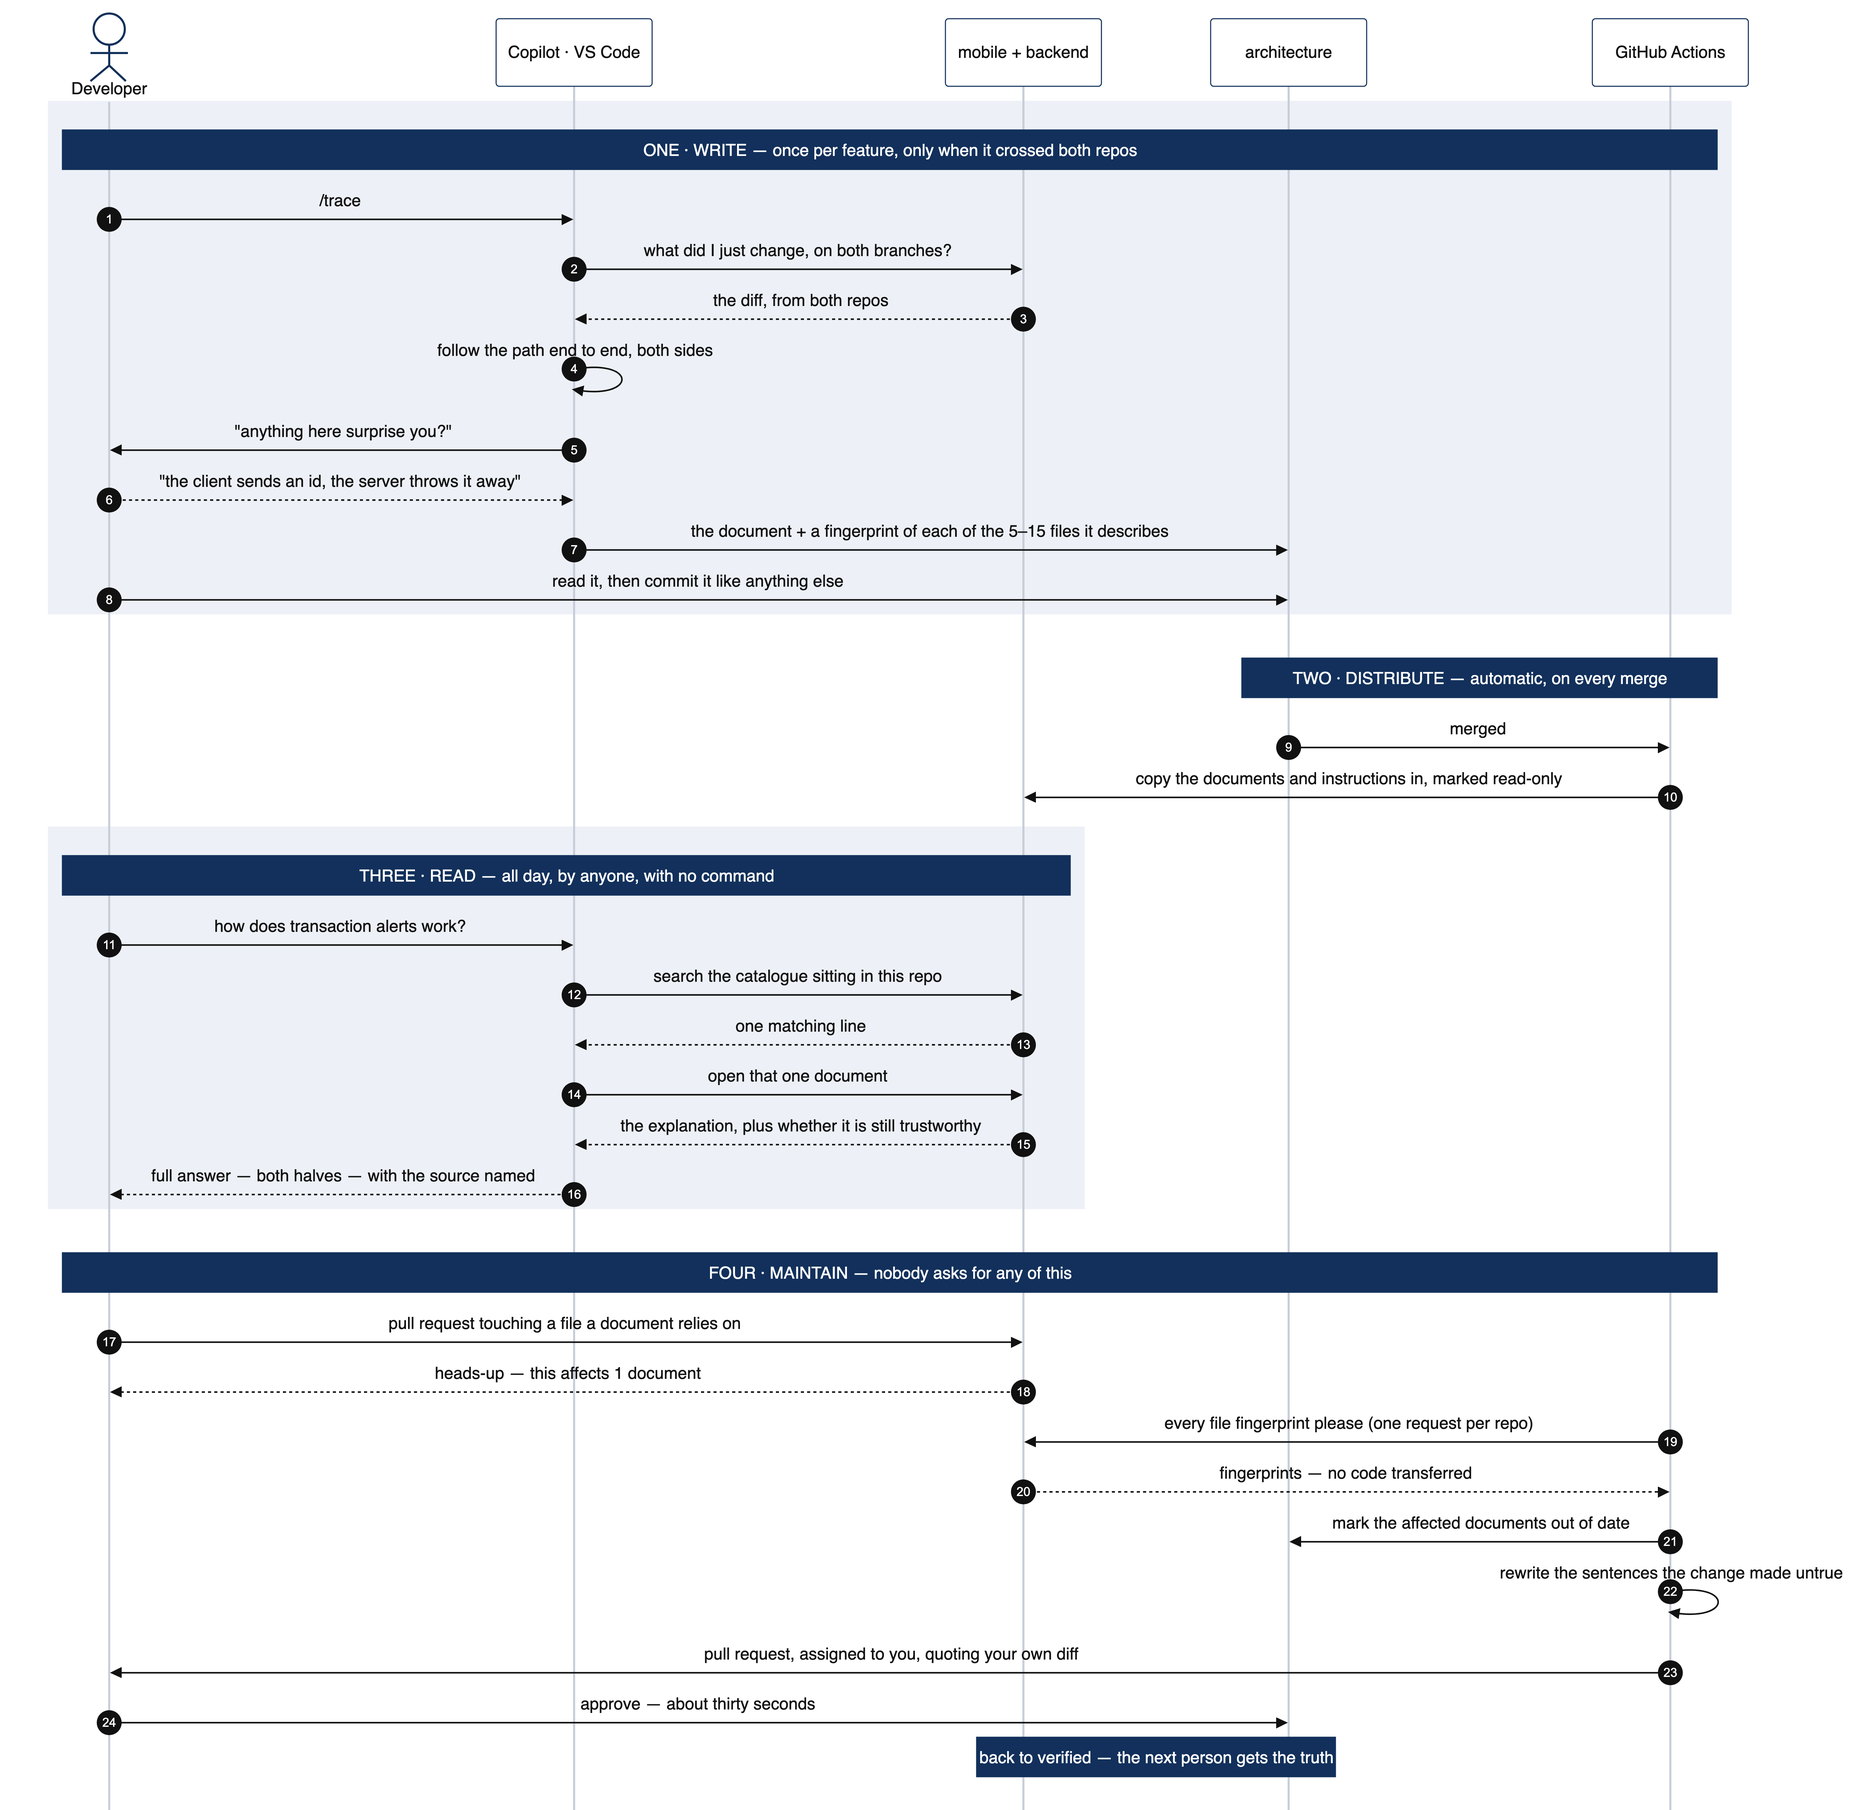
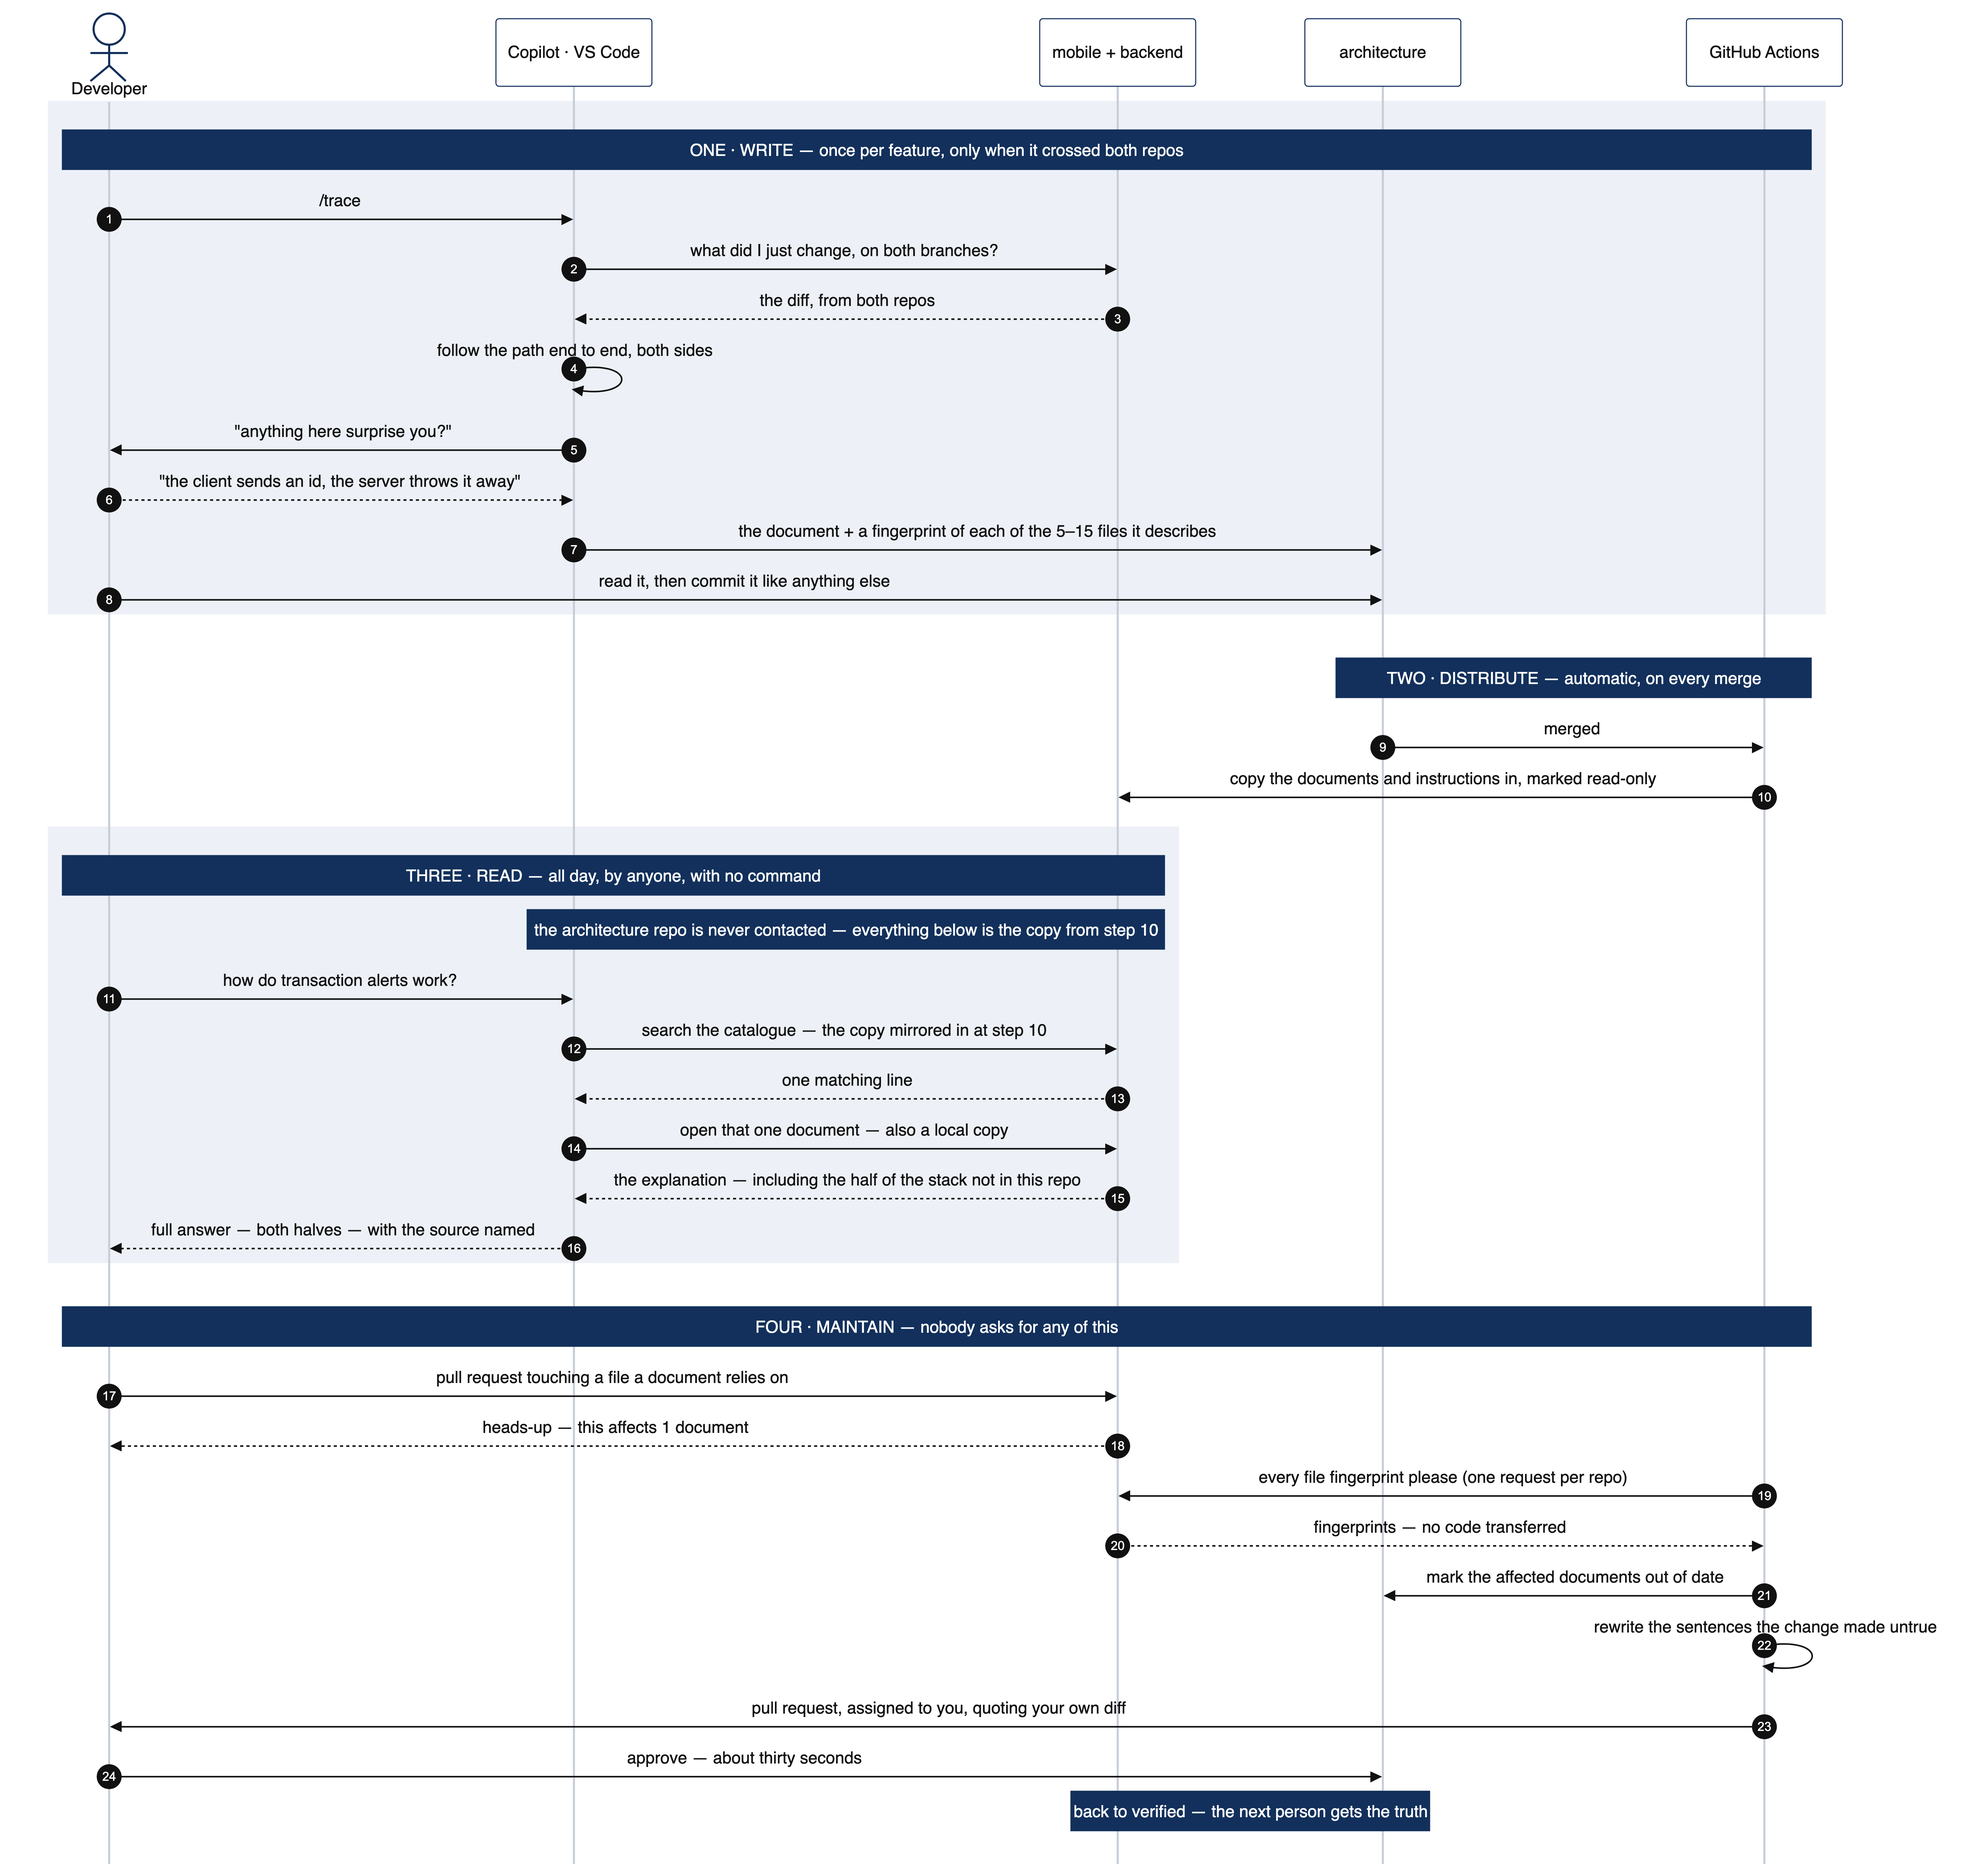
Make the mirror connection explicit in the read path; fix agreement

diff --git a/index.html b/index.html
@@ -769,7 +769,7 @@
         <div class="sq__lines">
           <i style="--i:0"></i><i style="--i:1"></i><i style="--i:2"></i><i style="--i:3"></i>
         </div>
-        <div class="sq__msg" style="--a:0;--b:1"><span class="sq__lbl">how does transaction alerts work? — no command needed</span><span class="sq__ln"></span><span class="sq__no">1</span></div>
+        <div class="sq__msg" style="--a:0;--b:1"><span class="sq__lbl">how do transaction alerts work? — no command needed</span><span class="sq__ln"></span><span class="sq__no">1</span></div>
         <div class="sq__msg" style="--a:1;--b:2"><span class="sq__lbl">search the list for those words</span><span class="sq__ln"></span><span class="sq__no">2</span></div>
         <div class="sq__msg rtl dashed" style="--a:1;--b:2"><span class="sq__lbl">one matching line</span><span class="sq__ln"></span><span class="sq__no">3</span></div>
         <div class="sq__msg" style="--a:1;--b:3"><span class="sq__lbl">read that single file</span><span class="sq__ln"></span><span class="sq__no">4</span></div>
